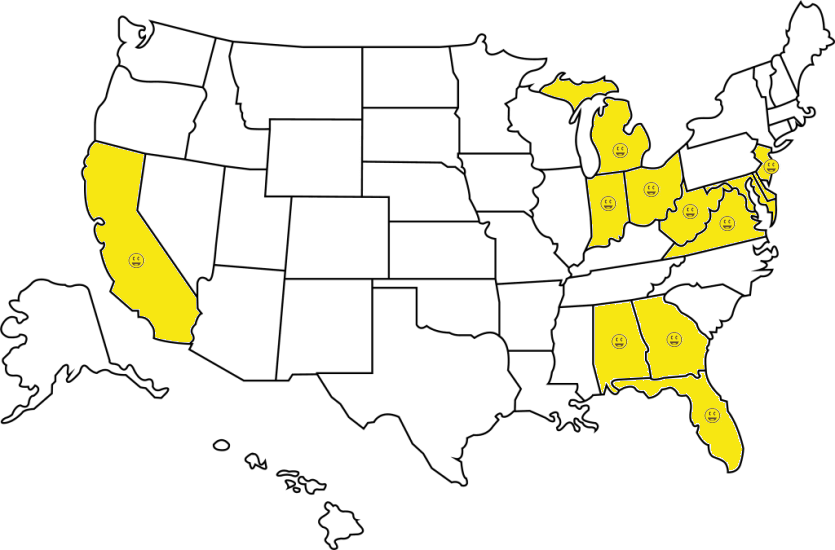
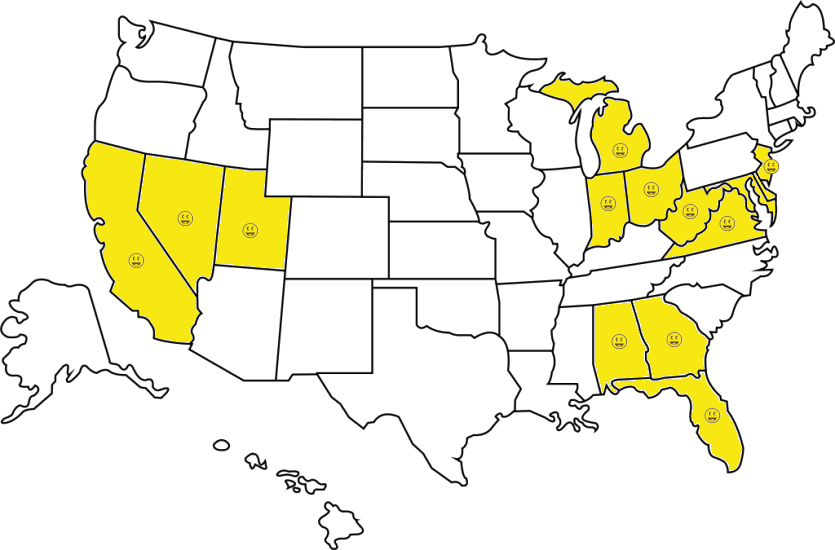
Add UT and NV

Changed region(s): [[0.1557, 0.2782, 0.3425, 0.5255]]

diff --git a/caa.md b/caa.md
@@ -21,6 +21,8 @@
 | Florida       | [2025-11-24](https://www.geocaching.com/live/log/GL1FMYAA6) |
 | Georgia       | [2025-11-27](https://www.geocaching.com/live/log/GL1FN64EA) |
 | Alabama       | [2025-11-29](https://www.geocaching.com/live/log/GL1FNCD48) |
+| Utah          | [2025-12-22](https://www.geocaching.com/live/log/GL1FR4HRK) |
+| Nevada        | [2025-12-23](https://www.geocaching.com/live/log/GL1FR85CT) |
 
 ### My journey
 
@@ -255,3 +257,9 @@ known location).
 <br />
 Alabama
 </p>
+
+For Christmas, my wife and older son went to Korea, leaving me and my younger son to fend for ourselves. I asked him what he wanted to do.
+
+"I want to go to Death Valley."
+
+My heart melted and a trip was planned. We will drive to Las Vegas, spend 4-5 days there, then 1-2 days in Death Valley, then swing past Mono Lake on the way back. Caching-wise, my goals are seven counties in my quest to sign a log in all 58 in CA, GCC2, and the Nevada and Utah C
